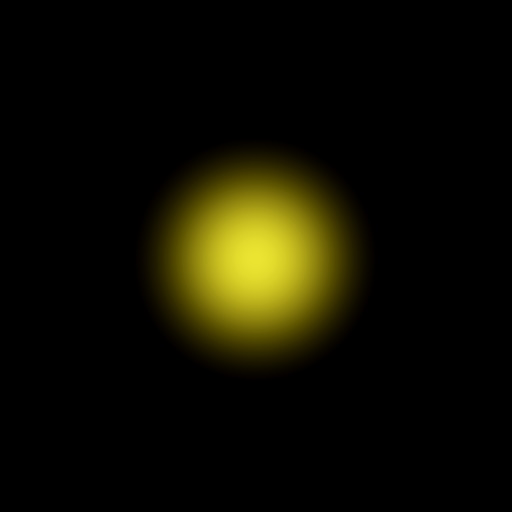
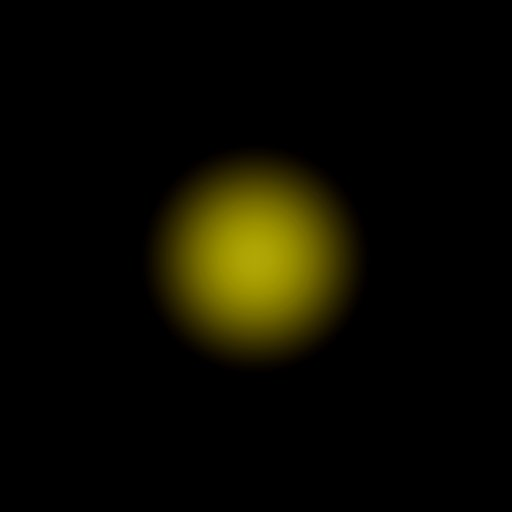
- Updated packages - Minor graphics upgrade

Changed region(s): [[0.3438, 0.3438, 0.6562, 0.6562]]

diff --git a/app/src/renderer.js b/app/src/renderer.js
@@ -28,8 +28,8 @@ const doLightingPass = () => {
     Shaders.directionalLight.setInt('normalBuffer', 1);
     Shaders.directionalLight.setInt('colorBuffer', 2);
     Shaders.directionalLight.setVec3('directionalLight.direction', [-3.0, 3.0, -5.0]);
-    Shaders.directionalLight.setVec3('directionalLight.diffuse', [0.7, 0.7, 0.7]);
-    Shaders.directionalLight.setVec3('directionalLight.ambient', [0.55, 0.55, 0.55]);
+    Shaders.directionalLight.setVec3('directionalLight.diffuse', [0.65, 0.625, 0.65]);
+    Shaders.directionalLight.setVec3('directionalLight.ambient', [0.5, 0.475, 0.5]);
 
     quad.renderSingle();
 
